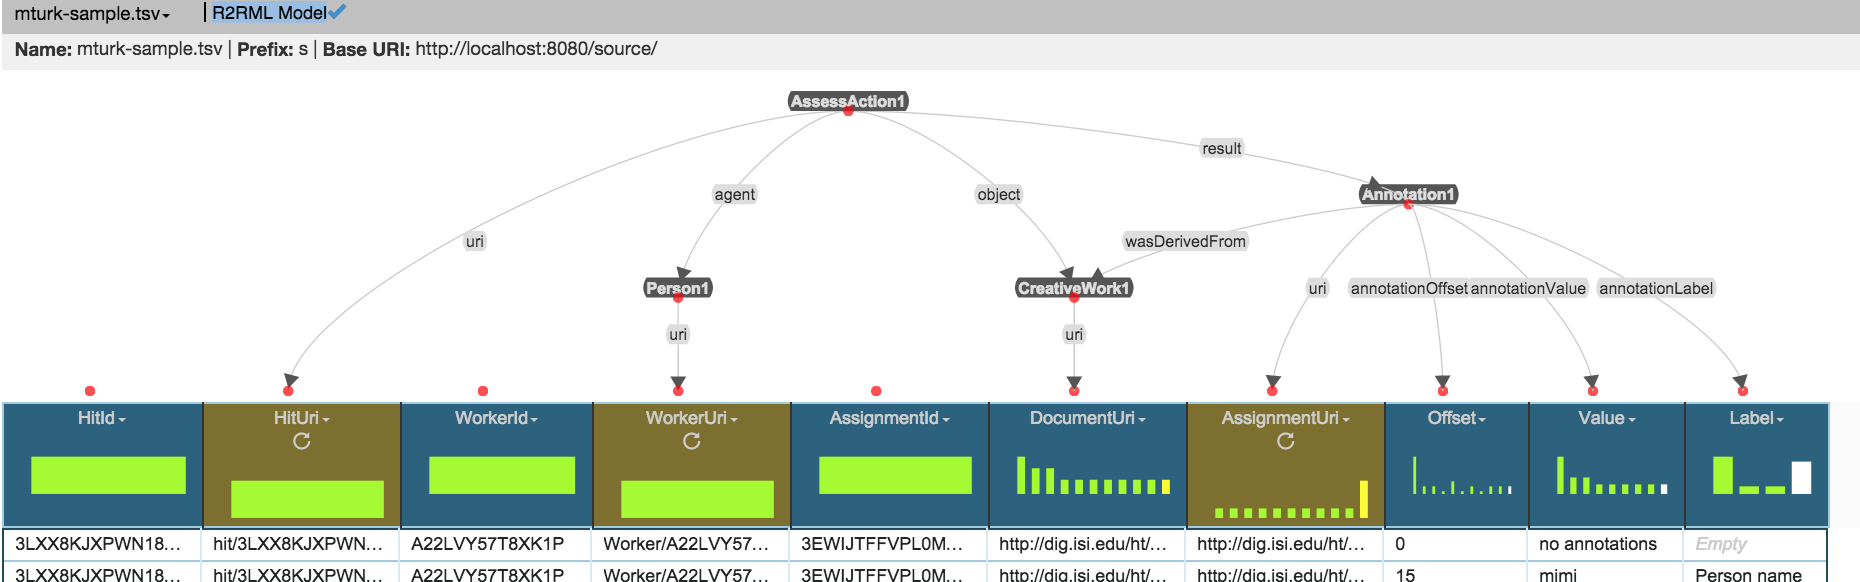
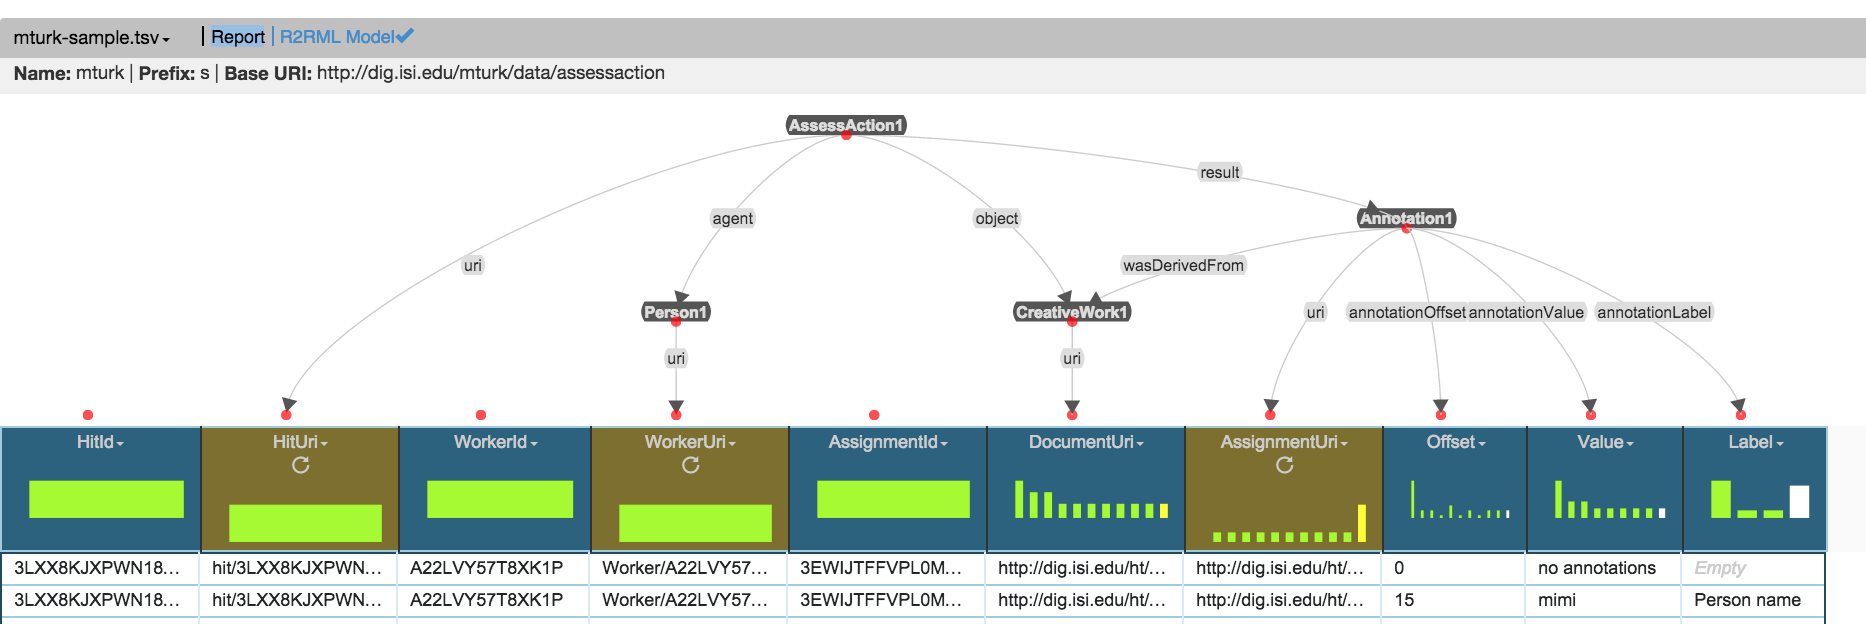
update base model, include report md

diff --git a/datasets/mturk/mturk-model.md b/datasets/mturk/mturk-model.md
@@ -1,0 +1,41 @@
+## mturk-sample.tsv
+
+### PyTransforms
+#### _HitUri_
+From column: _HitId_
+>``` python
+return "hit/" + getValue("HitId")
+```
+
+#### _WorkerUri_
+From column: _WorkerId_
+>``` python
+return "Worker/" + getValue("WorkerId")
+```
+
+#### _AssignmentUri_
+From column: _DocumentUri_
+>``` python
+return getValue("DocumentUri") + "/" + getValue("AssignmentId") + "/" + getValue("Offset") + "/" + ("0" if getValue("Offset")=="0" else str(len(getValue("Value"))))
+```
+
+
+### Semantic Types
+| Column | Property | Class |
+|  ----- | -------- | ----- |
+| _AssignmentUri_ | `uri` | `mturk:Annotation1`|
+| _DocumentUri_ | `uri` | `schema:CreativeWork1`|
+| _HitUri_ | `uri` | `schema:AssessAction1`|
+| _Label_ | `mturk:annotationLabel` | `mturk:Annotation1`|
+| _Offset_ | `mturk:annotationOffset` | `mturk:Annotation1`|
+| _Value_ | `mturk:annotationValue` | `mturk:Annotation1`|
+| _WorkerUri_ | `uri` | `schema:Person1`|
+
+
+### Links
+| From | Property | To |
+|  --- | -------- | ---|
+| `mturk:Annotation1` | `prov:wasDerivedFrom` | `schema:CreativeWork1`|
+| `schema:AssessAction1` | `schema:agent` | `schema:Person1`|
+| `schema:AssessAction1` | `schema:result` | `mturk:Annotation1`|
+| `schema:AssessAction1` | `schema:object` | `schema:CreativeWork1`|
